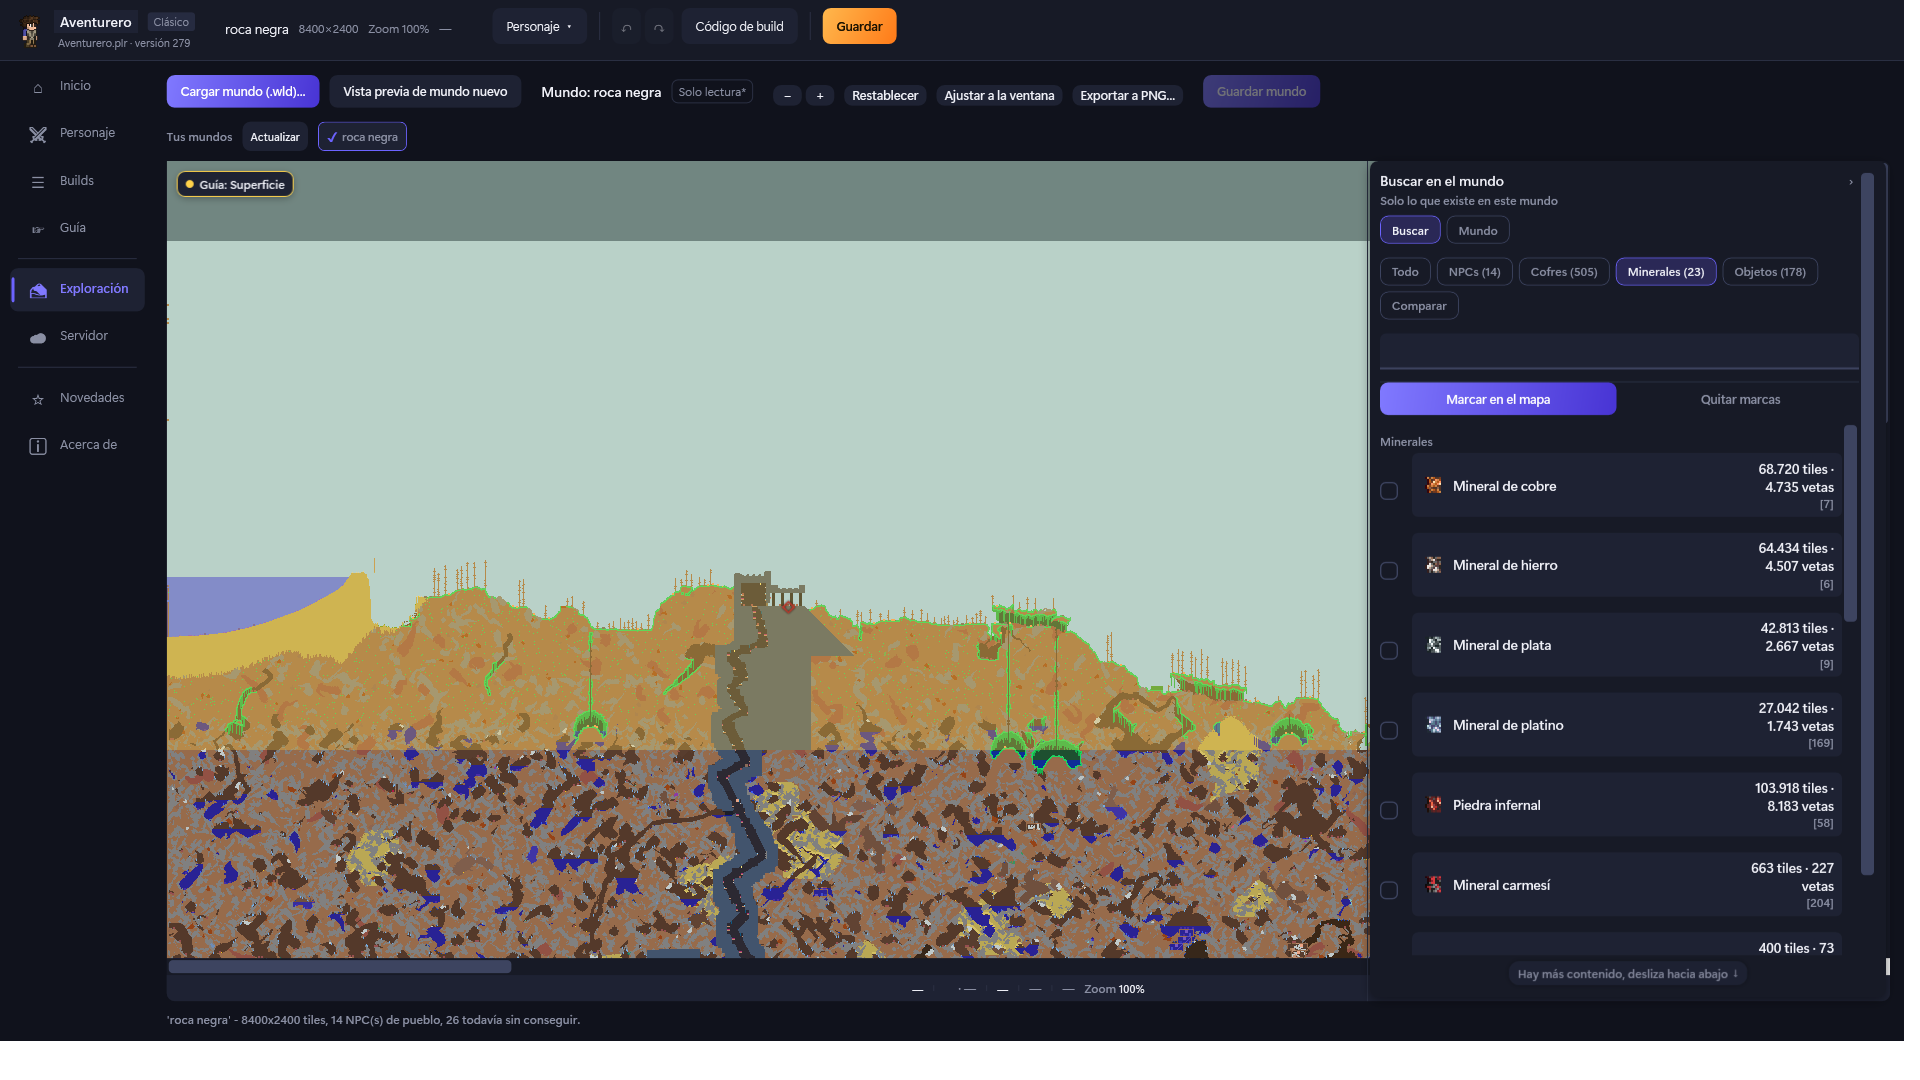
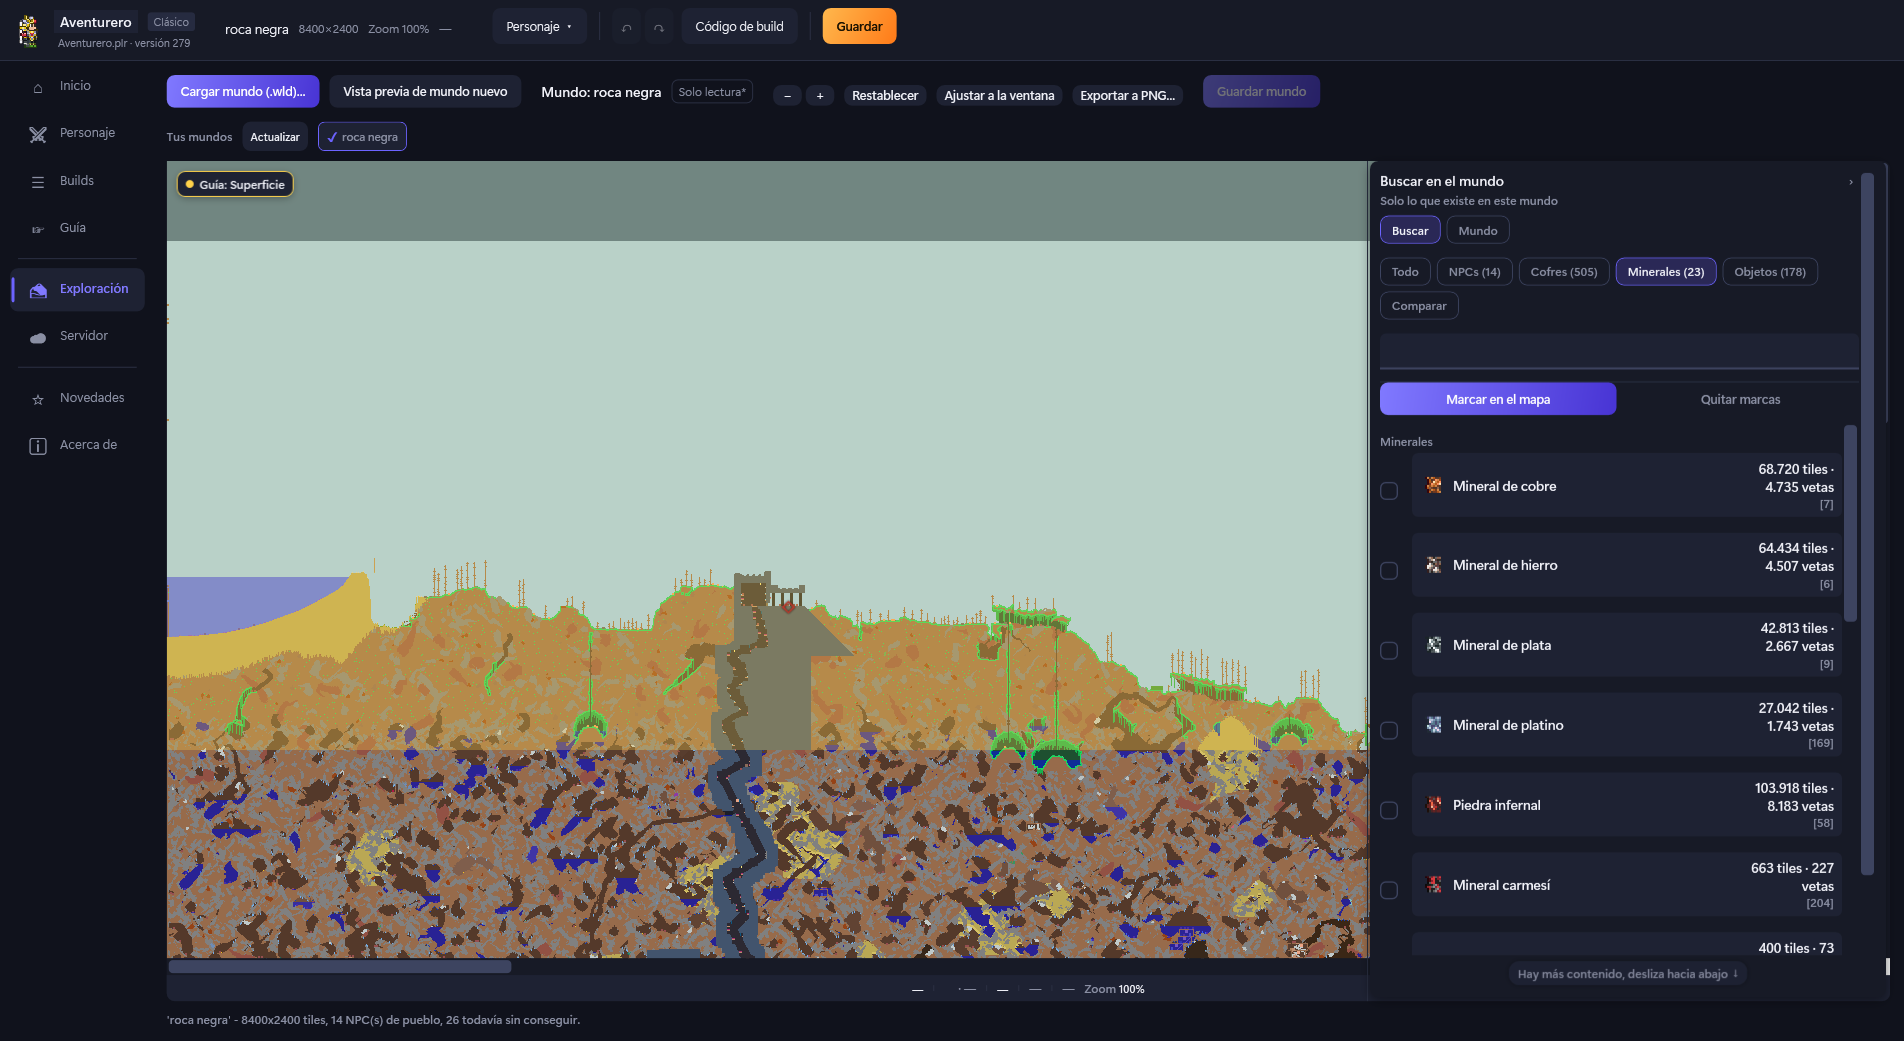
Corrige capturas del README: franja blanca y personaje mal equipado
Aviso real del coordinador tras abrir 01-inicio.png/02-personaje.png a
mano - dos bugs reales, ninguno cosmético:

1. Franja blanca de ~40px abajo y ~16px a la derecha en las 6
   capturas. Causa: el RenderTargetBitmap mide la VENTANA entera
   (ActualWidth/ActualHeight), pero el árbol visual real no siempre
   pinta hasta el borde exacto (Grid.Margin, bordes con sombra); esa
   franja queda con alfa=0 y la mayoría de visores la componen sobre
   blanco. Mismo bug ya diagnosticado y arreglado en Starvekeep
   (App.xaml.cs, RecortarAlContenidoReal) - adaptado aquí: se recorta
   el bitmap renderizado al rectángulo real con alfa>0, calculado
   píxel a píxel, nunca un margen fijo adivinado. Las 6 capturas pasan
   de 1920x1080 a 1904x1041 (mismo recorte en las 6, consistente).
   Verificado con un script nuevo que recorre el perímetro completo de
   los 6 PNG resultantes: 0 píxeles blancos, 0 transparentes.

2. El personaje sintético "Aventurero" estaba mal construido: la
   Terra Blade ocupaba el primer hueco de PrimaryLoadout.Items (el de
   casco - ese array son los 3 slots de armadura + 7 accesorios del
   loadout activo, confirmado contra MainViewModel.RebuildContainers/
   EquipmentGroupViewModel/DefenseCalculator), y la armadura Hallowed
   se había puesto en PlrCharacter.EquipmentItems, que en realidad es
   "miscEquips" (mascota/mascota de luz/vagoneta/montura/gancho), no
   armadura - por eso no aparecía en el panel "Armadura" y la Defensa
[…]

diff --git a/Terrakeep.App.Tests/PruebasCapturasReadme.cs b/Terrakeep.App.Tests/PruebasCapturasReadme.cs
@@ -41,19 +41,47 @@ internal static partial class Program
             var rtb = new System.Windows.Media.Imaging.RenderTargetBitmap(
                 (int)window.ActualWidth, (int)window.ActualHeight, 96, 96, System.Windows.Media.PixelFormats.Pbgra32);
             rtb.Render(window);
+            // Aviso real del coordinador (29-sep-2026, tras abrir 01-inicio.png/02-personaje.png a
+            // mano): franjas blancas de ~40px abajo y ~16px a la derecha. Mismo bug real ya
+            // diagnosticado y arreglado en Starvekeep (App.xaml.cs, RecortarAlContenidoReal): el
+            // RenderTargetBitmap mide la VENTANA entera (ActualWidth/ActualHeight), pero el arbol
+            // visual real (Grid.Margin, bordes con sombra, elementos que se miden a su propio
+            // contenido) no siempre pinta hasta el borde exacto - la franja sin pintar queda con
+            // alfa=0, y la mayoria de visores de imagen componen ese alfa 0 sobre blanco. Arreglo
+            // real: recortar al rectangulo REALMENTE pintado (alfa>0), calculado pixel a pixel
+            // sobre lo que se acaba de renderizar - nunca un margen fijo adivinado a mano.
+            var recortada = RecortarAlContenidoReal(rtb);
             var enc = new System.Windows.Media.Imaging.PngBitmapEncoder();
-            enc.Frames.Add(System.Windows.Media.Imaging.BitmapFrame.Create(rtb));
+            enc.Frames.Add(System.Windows.Media.Imaging.BitmapFrame.Create(recortada));
             string destino = Path.Combine(dirDocs, nombreArchivo);
             using (var fs = File.Create(destino)) enc.Save(fs);
-            Console.WriteLine($"README_SHOTS: {nombreArchivo} <- {window.ActualWidth:0}x{window.ActualHeight:0}, {new FileInfo(destino).Length} bytes");
+            Console.WriteLine($"README_SHOTS: {nombreArchivo} <- {window.ActualWidth:0}x{window.ActualHeight:0} (lienzo) -> {recortada.PixelWidth}x{recortada.PixelHeight} (recortado al contenido real), {new FileInfo(destino).Length} bytes");
         }
 
         vm.Settings.Language = "es";
         FijarTamaño(window, 1920, 1080);
 
-        // Personaje sintetico presentable ("Aventurero" - nunca el nombre del usuario real):
-        // Hallowed completo (551/552/553) + Angel Wings (493) equipados, Terra Blade (757) e
-        // Iron Pickaxe/Axe (1/10) en el inventario, monedas reales. IDs vanilla confirmados contra
+        // Personaje sintetico presentable ("Aventurero" - nunca el nombre del usuario real).
+        // Correccion real (29-sep-2026, aviso del coordinador tras abrir 02-personaje.png a mano):
+        // la primera version confundia dos arrays distintos de PlrCharacter. Investigado de verdad
+        // contra el codigo real antes de tocar nada (EquipmentGroupViewModel.cs, MainViewModel.cs
+        // RebuildContainers, DefenseCalculator.cs):
+        //   - El panel "Armadura" (Cabeza/Cuerpo/Piernas + 7 accesorios) sale de
+        //     PrimaryLoadout.Items[0..9] - Items[0]=Cabeza, [1]=Cuerpo, [2]=Piernas, [3..9]=accesorios
+        //     (MainViewModel.cs, RebuildContainers, contenedor "loadout0Items"). Ahi es donde iba la
+        //     Terra Blade en la version anterior (Items[0], el hueco de casco) - por eso aparecia
+        //     ahi en vez de en el inventario, y la armadura Hallowed no aparecia en ningun sitio.
+        //   - EquipmentItems (el array de 5 que se uso antes para "armadura") NO es armadura: es
+        //     miscEquips - Mascota/Mascota de luz/Vagoneta/Montura/Gancho (MainViewModel.cs,
+        //     comentario real de MountsContainer) - ahi fueron a parar las piezas Hallowed la vez
+        //     anterior, como iconos irreconocibles en la columna "Mascota/Montura".
+        //   - DefenseCalculator.Total() suma la Defense real de VanillaItemStatsCatalog sobre
+        //     Items[0..2]+accesorios - por eso "Defensa total" salia 0 (esos slots no tenian
+        //     armadura de verdad, solo la espada en el hueco de casco).
+        // Ahora: Hallowed completo (551/552/553) en Items[0..2], 3 accesorios reales en Items[3..5]
+        // (Angel Wings/Hermes Boots/Band of Regeneration), Terra Blade (757) SOLO en el inventario
+        // (hotbar, slot 0) - nunca en un hueco de armadura. Vida/mana ACTUALES = maximo (antes
+        // quedaban en 0/400 y 0/200 por no fijar HealthNow/ManaNow). IDs vanilla confirmados contra
         // Terrakeep.App/Assets/vanilla_item_names_en.json (catalogo real del propio repo, nunca
         // inventados). Version=279 (misma linea base que el resto del arnes).
         var personaje = new PlrCharacter
@@ -63,7 +91,9 @@ internal static partial class Program
             Difficulty = 0,
             PlayTimeLow = 5_400_000, // ~1h30 a 60 ticks/s, solo para que no salga "0h" en la tarjeta
             HealthMax = 400,
+            HealthNow = 400,
             ManaMax = 200,
+            ManaNow = 200,
             HairColor = [90, 60, 35],
             SkinColor = [255, 200, 165],
             EyeColor = [105, 90, 75],
@@ -71,14 +101,7 @@ internal static partial class Program
             UnderColor = [85, 85, 180],
             PantsColor = [170, 140, 90],
             ShoesColor = [130, 90, 60],
-            EquipmentItems =
-            [
-                new PlrItemSlot(553, 1, 0, false), // Hallowed Helmet
-                new PlrItemSlot(551, 1, 0, false), // Hallowed Plate Mail
-                new PlrItemSlot(552, 1, 0, false), // Hallowed Greaves
-                new PlrItemSlot(493, 1, 0, false), // Angel Wings
-                PlrItemSlot.Empty,
-            ],
+            EquipmentItems = new PlrItemSlot[5], // miscEquips (mascota/montura/gancho) - vacio a proposito, no es armadura
             EquipmentDyes = new PlrItemSlot[5],
             Inventory = CrearInventarioPresentable(),
             Coins =
@@ -290,26 +313,78 @@ internal static partial class Program
         }
     }
 
-    // Inventario sintetico presentable para "Aventurero" (README_SHOTS): un pico/hacha de hierro
-    // en los dos primeros slots y una Terra Blade bien visible - IDs vanilla confirmados contra
-    // Terrakeep.App/Assets/vanilla_item_names_en.json (catalogo real del propio repo).
+    // Recorta un RenderTargetBitmap al rectangulo real que tiene algo pintado (alfa > 0), quitando
+    // cualquier franja sin pintar que haya quedado en los bordes - ver el comentario real de
+    // Capturar() para el porque. Adaptado de Starvekeep.App/App.xaml.cs
+    // (RecortarAlContenidoReal, mismo bug real ya diagnosticado y arreglado ahi el 29-sep-2026).
+    // Nunca recorta un pixel con contenido de verdad: solo el margen exterior totalmente
+    // transparente. Si no hay ningun margen asi, devuelve la misma imagen sin tocar.
+    private static System.Windows.Media.Imaging.BitmapSource RecortarAlContenidoReal(System.Windows.Media.Imaging.RenderTargetBitmap mapa)
+    {
+        int ancho = mapa.PixelWidth;
+        int alto = mapa.PixelHeight;
+        int bytesPorFila = ancho * 4;
+        var pixeles = new byte[bytesPorFila * alto];
+        mapa.CopyPixels(pixeles, bytesPorFila, 0);
+
+        int minX = ancho, minY = alto, maxX = -1, maxY = -1;
+        for (int y = 0; y < alto; y++)
+        {
+            int filaBase = y * bytesPorFila;
+            for (int x = 0; x < ancho; x++)
+            {
+                // Formato Pbgra32: byte 3 de cada pixel es el alfa (B,G,R,A).
+                if (pixeles[filaBase + x * 4 + 3] == 0) continue;
+                if (x < minX) minX = x;
+                if (x > maxX) maxX = x;
+                if (y < minY) minY = y;
+                if (y > maxY) maxY = y;
+            }
+        }
+
+        if (maxX < minX || maxY < minY) return mapa; // nada pintado - red de seguridad, no deberia pasar
+
+        int anchoReal = maxX - minX + 1;
+        int altoReal = maxY - minY + 1;
+        if (minX == 0 && minY == 0 && anchoReal == ancho && altoReal == alto) return mapa; // ya llena el lienzo entero
+
+        return new System.Windows.Media.Imaging.CroppedBitmap(mapa, new System.Windows.Int32Rect(minX, minY, anchoReal, altoReal));
+    }
+
+    // Inventario sintetico presentable para "Aventurero" (README_SHOTS): Terra Blade en la hotbar
+    // (slot 0, nunca en un hueco de armadura - ver el comentario real de mas arriba) mas
+    // pico/hacha de hierro y unas cuantas pociones/materiales variados para que el inventario no
+    // se vea vacio. IDs vanilla confirmados contra vanilla_item_names_en.json.
     private static PlrItemSlot[] CrearInventarioPresentable()
     {
         var inventario = new PlrItemSlot[50];
         Array.Fill(inventario, PlrItemSlot.Empty);
-        inventario[0] = new PlrItemSlot(757, 1, 0, false); // Terra Blade
-        inventario[1] = new PlrItemSlot(1, 1, 0, false);   // Iron Pickaxe
-        inventario[2] = new PlrItemSlot(10, 1, 0, false);  // Iron Axe
+        inventario[0] = new PlrItemSlot(757, 1, 0, false);   // Terra Blade
+        inventario[1] = new PlrItemSlot(1, 1, 0, false);     // Iron Pickaxe
+        inventario[2] = new PlrItemSlot(10, 1, 0, false);    // Iron Axe
+        inventario[3] = new PlrItemSlot(84, 1, 0, false);    // Grappling Hook
+        inventario[4] = new PlrItemSlot(28, 20, 0, false);   // Lesser Healing Potion
+        inventario[10] = new PlrItemSlot(8, 100, 0, false);  // Torch
+        inventario[11] = new PlrItemSlot(9, 50, 0, false);   // Wood
         return inventario;
     }
 
-    // Loadout principal sintetico para "Aventurero": la Terra Blade tambien en el primer slot de
-    // Items del loadout activo (loadouts[0], el "mirror" - PlrLoadout.CreateEmpty(isPrimary: true)
-    // ya deja Hide=null como corresponde a ese loadout).
+    // Loadout principal sintetico para "Aventurero": armadura Hallowed real en los 3 huecos de
+    // verdad (Items[0]=Cabeza, [1]=Cuerpo, [2]=Piernas - confirmado contra MainViewModel.
+    // RebuildContainers/EquipmentGroupViewModel, nunca un hueco cualquiera a ciegas) + 3
+    // accesorios reales en Items[3..5]. DefenseCalculator suma la Defense real del catalogo
+    // vanilla sobre estos mismos slots, asi que "Defensa total" sale calculada de verdad, no a 0.
+    // PlrLoadout.CreateEmpty(isPrimary: true) ya deja Hide=null, como corresponde al loadout
+    // "mirror" activo (loadouts[0]).
     private static PlrLoadout CrearLoadoutPrincipal()
     {
         var loadout = PlrLoadout.CreateEmpty(isPrimary: true);
-        loadout.Items[0] = new PlrItemSlot(757, 1, 0, false); // Terra Blade
+        loadout.Items[0] = new PlrItemSlot(553, 1, 0, false); // Hallowed Helmet (Cabeza)
+        loadout.Items[1] = new PlrItemSlot(551, 1, 0, false); // Hallowed Plate Mail (Cuerpo)
+        loadout.Items[2] = new PlrItemSlot(552, 1, 0, false); // Hallowed Greaves (Piernas)
+        loadout.Items[3] = new PlrItemSlot(493, 1, 0, false); // Angel Wings (accesorio)
+        loadout.Items[4] = new PlrItemSlot(54, 1, 0, false);  // Hermes Boots (accesorio)
+        loadout.Items[5] = new PlrItemSlot(49, 1, 0, false);  // Band of Regeneration (accesorio)
         return loadout;
     }
 }
